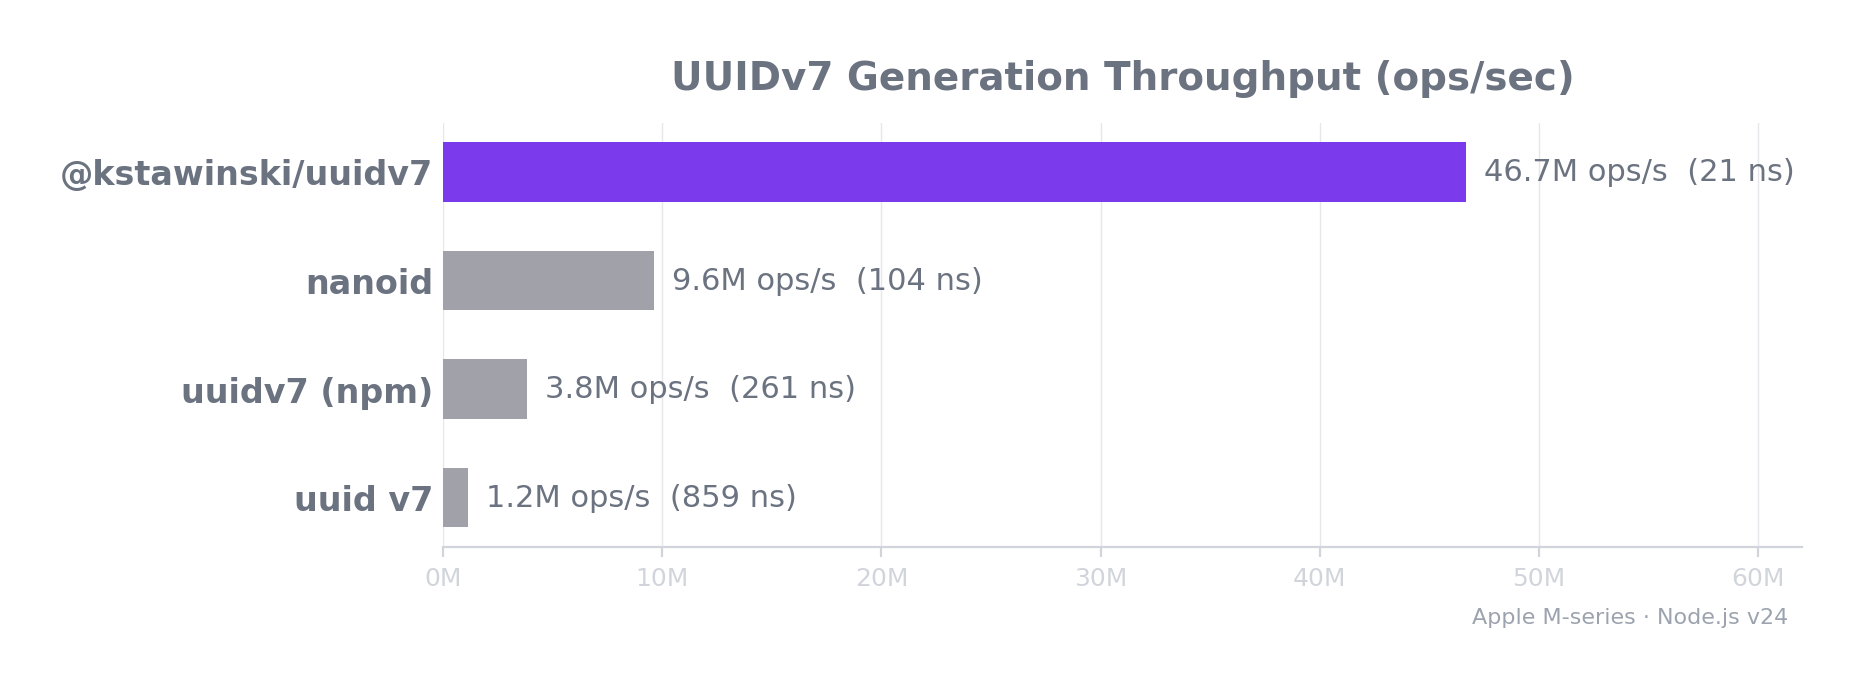
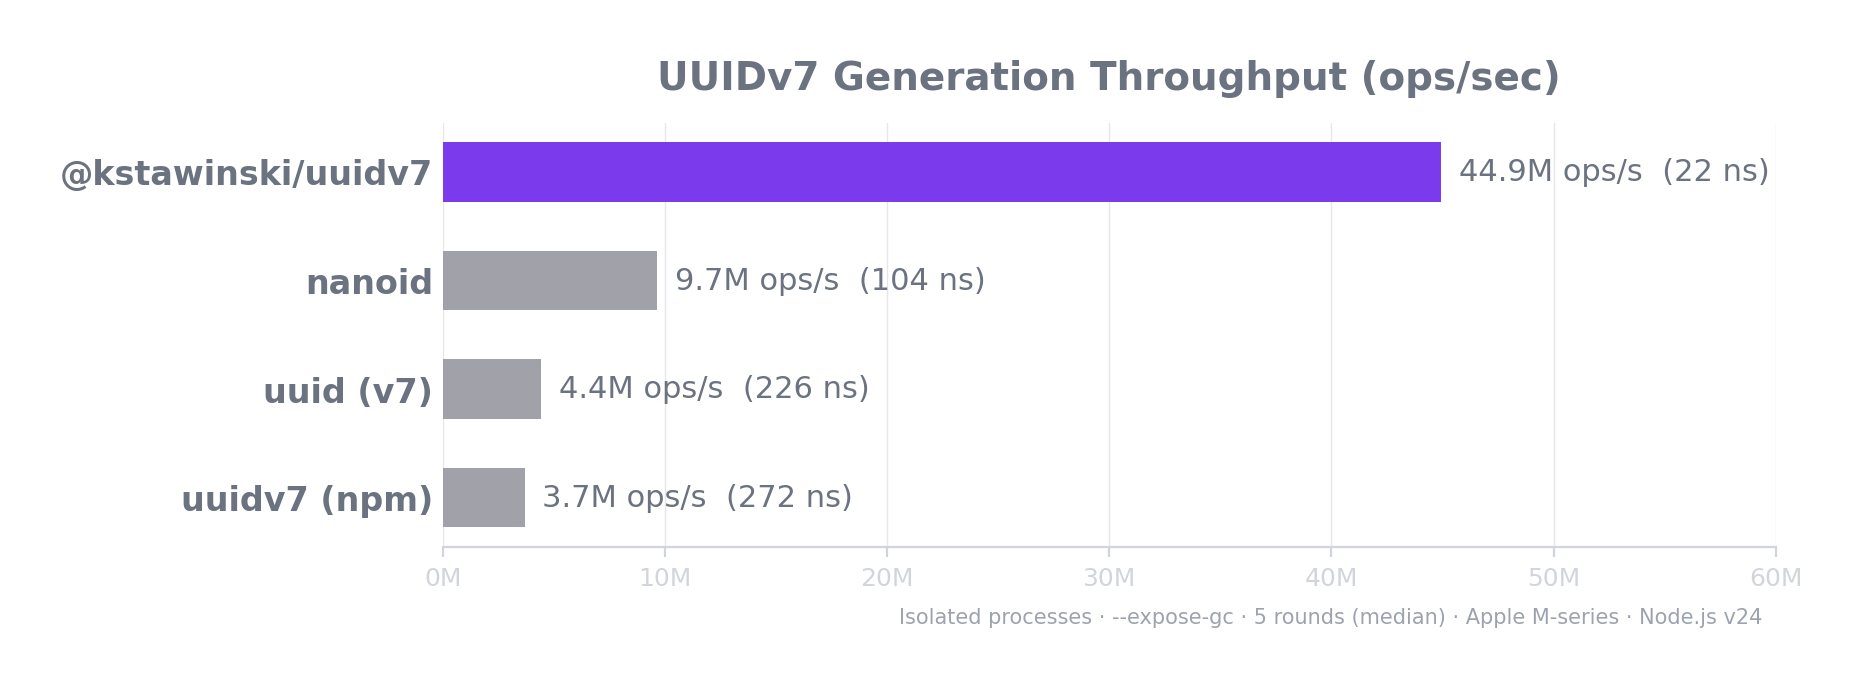
docs: align README numbers with isolated benchmark results

diff --git a/README.md b/README.md
@@ -2,7 +2,7 @@
 
 Ultra-fast, zero-dependency UUIDv7 generator for TypeScript & JavaScript. Fully compliant with [RFC 9562](https://www.rfc-editor.org/rfc/rfc9562).
 
-**~21 ns/op** | **46M+ ops/sec** | **4.8x faster than nanoid** | **12x faster than uuidv7 (npm)**
+**~22 ns/op** | **45M ops/sec** | **4.7x faster than nanoid** | **12x faster than uuidv7 (npm)**
 
 ## Why UUIDv7?
 
@@ -15,7 +15,7 @@ UUIDv4 gives you random noise. UUIDv7 gives you **time-sorted, database-friendly
 
 ## Features
 
-- **46M+ ops/sec** — the fastest UUIDv7 implementation available. Outperforms even nanoid (which isn't a UUID).
+- **45M ops/sec** — the fastest UUIDv7 implementation available. Outperforms even nanoid (which isn't a UUID).
 - **Zero dependencies** — no runtime dependencies, ever. 2.5 KB minified.
 - **Type-safe** — branded `UUIDv7` type prevents mixing with plain strings at compile time.
 - **Dual format** — ships both ESM and CommonJS via `tsup`, with full `.d.ts` declarations.
@@ -127,14 +127,14 @@ if (isValid(raw)) {
 
 | Implementation | ops/sec | avg (ns) | Relative |
 |---|---|---|---|
-| **@kstawinski/uuidv7** | **46,682,145** | **21** | **baseline** |
-| nanoid | 9,646,684 | 104 | 4.8x slower |
-| uuidv7 (npm) | 3,835,111 | 261 | 12.2x slower |
-| uuid v7 | 1,163,861 | 859 | 40x slower |
+| **@kstawinski/uuidv7** | **44,936,903** | **22** | **baseline** |
+| nanoid | 9,650,045 | 104 | 4.7x slower |
+| uuid (v7) | 4,425,268 | 226 | 10x slower |
+| uuidv7 (npm) | 3,676,097 | 272 | 12x slower |
 
 <!-- BENCHMARK_RESULTS_END -->
 
-> Apple M-series, Node.js v24.4. Run `npm run bench` for your machine.
+> Isolated processes, `--expose-gc`, 5 rounds (median). Apple M-series, Node.js v24.4. Run `npm run bench -- --isolated` for your machine.
 
 <details>
 <summary>Run benchmarks yourself</summary>
@@ -160,15 +160,13 @@ The hot path (same-millisecond generation) executes just **4 operations**:
 
 Key optimizations discovered through V8 JIT profiling:
 
-| Technique | Impact |
-|---|---|
-| Eliminate spin-wait overflow | +354 ns — V8 refuses to JIT-optimize functions containing `while` loops with `Date.now()` |
-| `performance.now()` over `Date.now()` | +5 ns — cheaper syscall, called only for delta detection |
-| Cached prefix/suffix strings | +20 ns — rebuilt once per ms, hot path does 2 concats instead of 20 |
-| `VC[4096]` counter table | +5 ns — pre-computed "7xxx" hex for all 12-bit counter values |
-| Class-based generator | +350 ns — V8 hidden classes optimize property access far better than module-scope `let` |
-| 4096-byte entropy pool | amortizes `crypto.getRandomValues()` (675 ns) over ~409 calls |
-| Timestamp-increment on counter overflow | RFC 9562 compliant, avoids spin-wait deopt |
+| Technique | Improvement | How |
+|---|---|---|
+| Eliminate spin-wait overflow | 495 → 141 ns | V8 refuses to JIT-optimize functions containing `while` loops with `Date.now()`. Replaced with timestamp-increment (RFC 9562 compliant). |
+| HEX[256] byte table + unrolled stringify | 141 → 73 ns | 16 lookups + 20 concats instead of 32 charAt calls + loop overhead. |
+| Cached prefix/suffix + `VC[4096]` | 73 → 30 ns | Timestamp and rand_b hex cached once per ms. Hot path: `prefix + VC[seq] + suffix` (2 concats). |
+| `performance.now()` fast-path | 30 → 22 ns | Cheaper than `Date.now()` (~22 vs ~26 ns). `Date.now()` called only once per ms for accurate timestamps. |
+| 4096-byte entropy pool | amortized | `crypto.getRandomValues()` cost (~675 ns) spread over ~409 UUID generations. |
 
 ## API Reference
 
